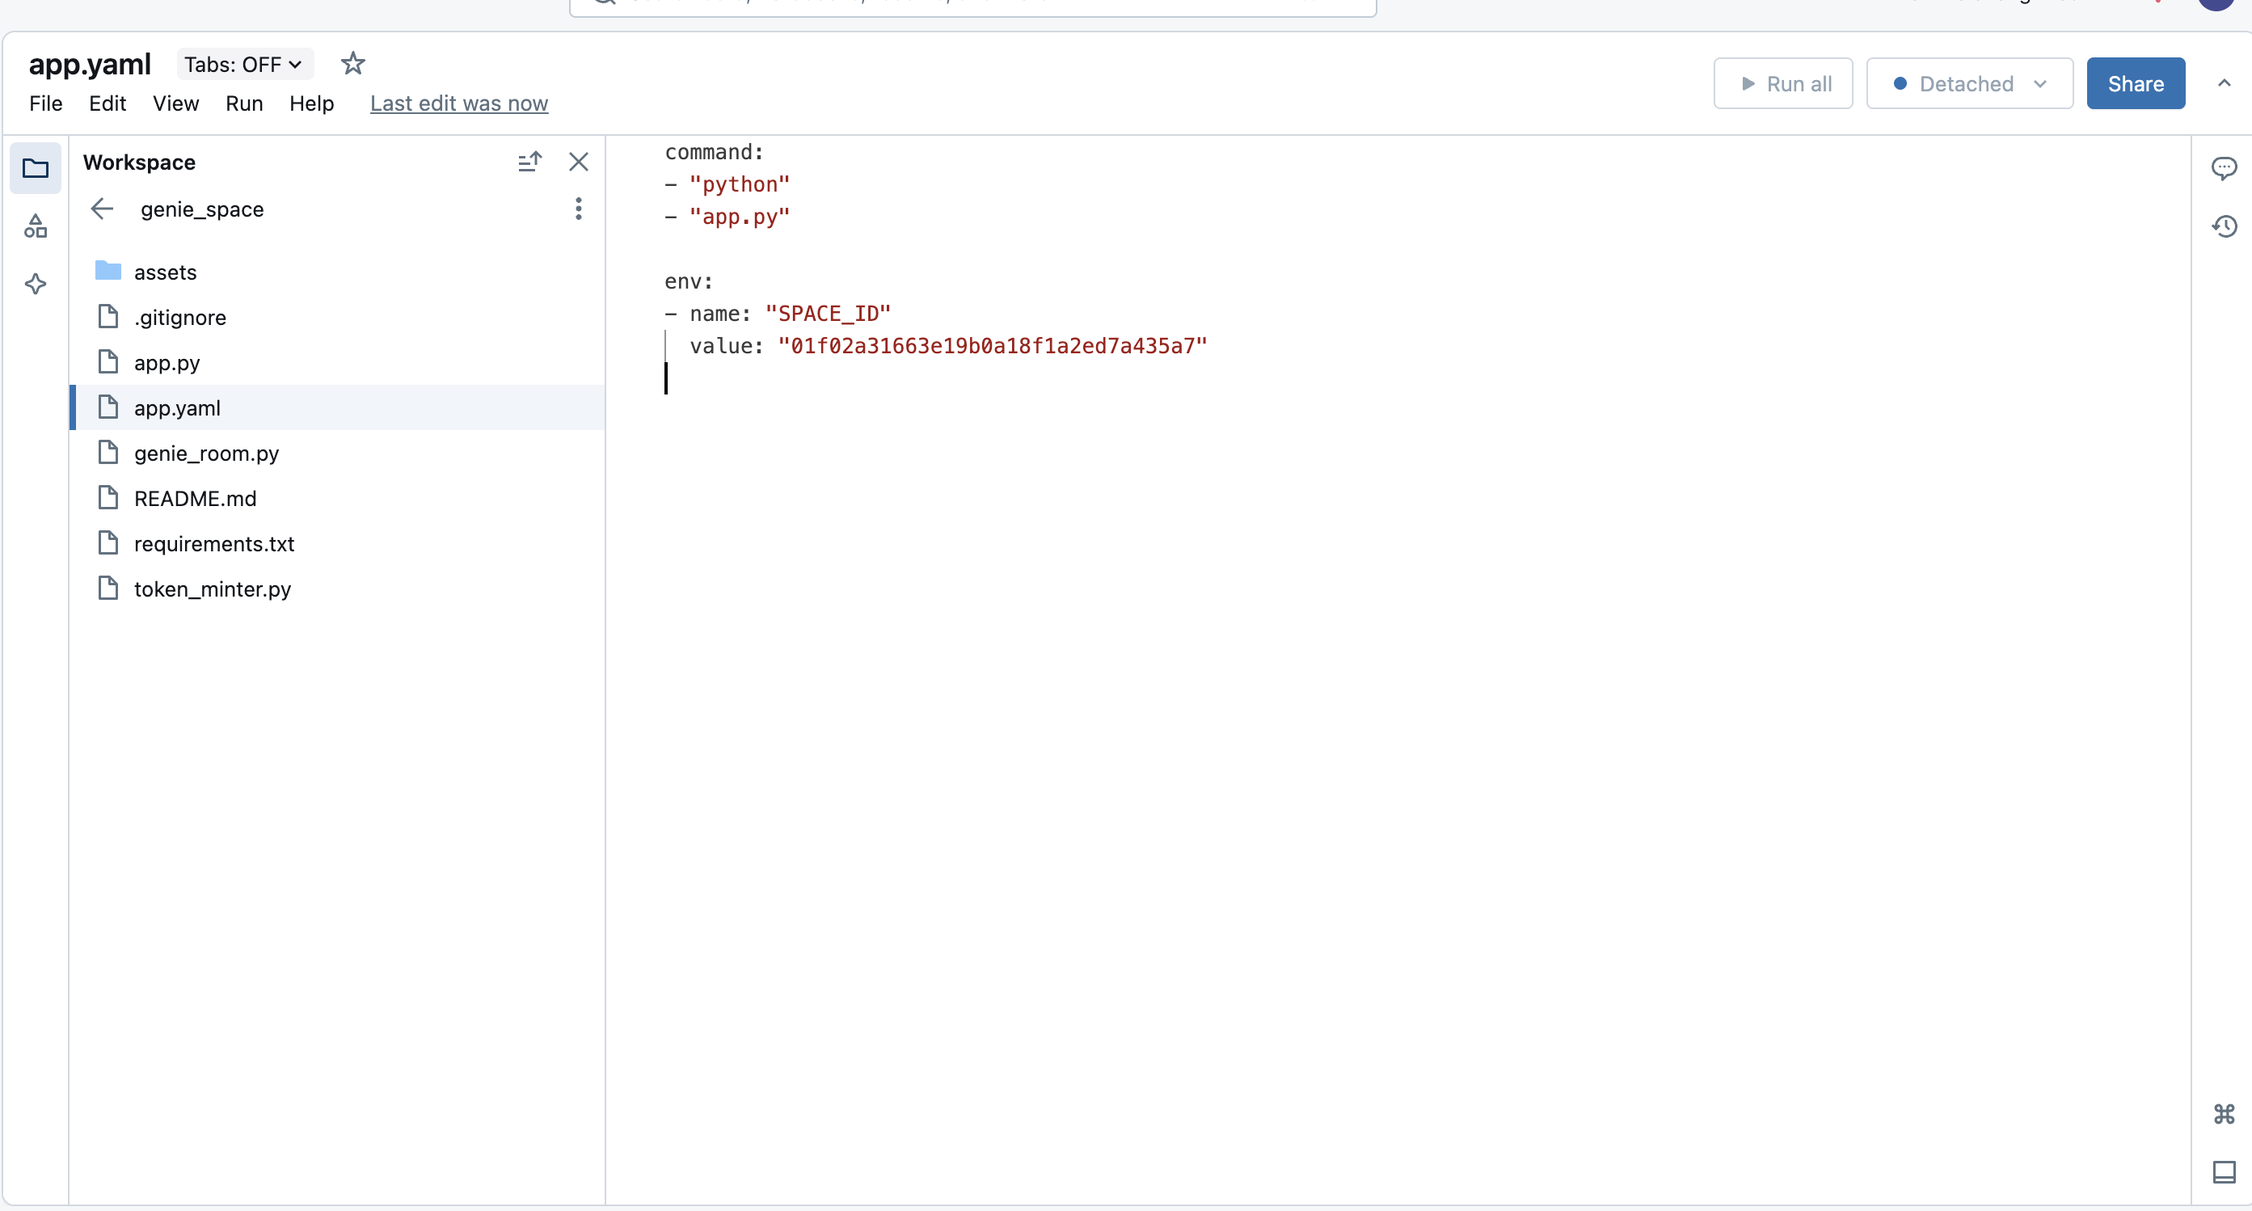
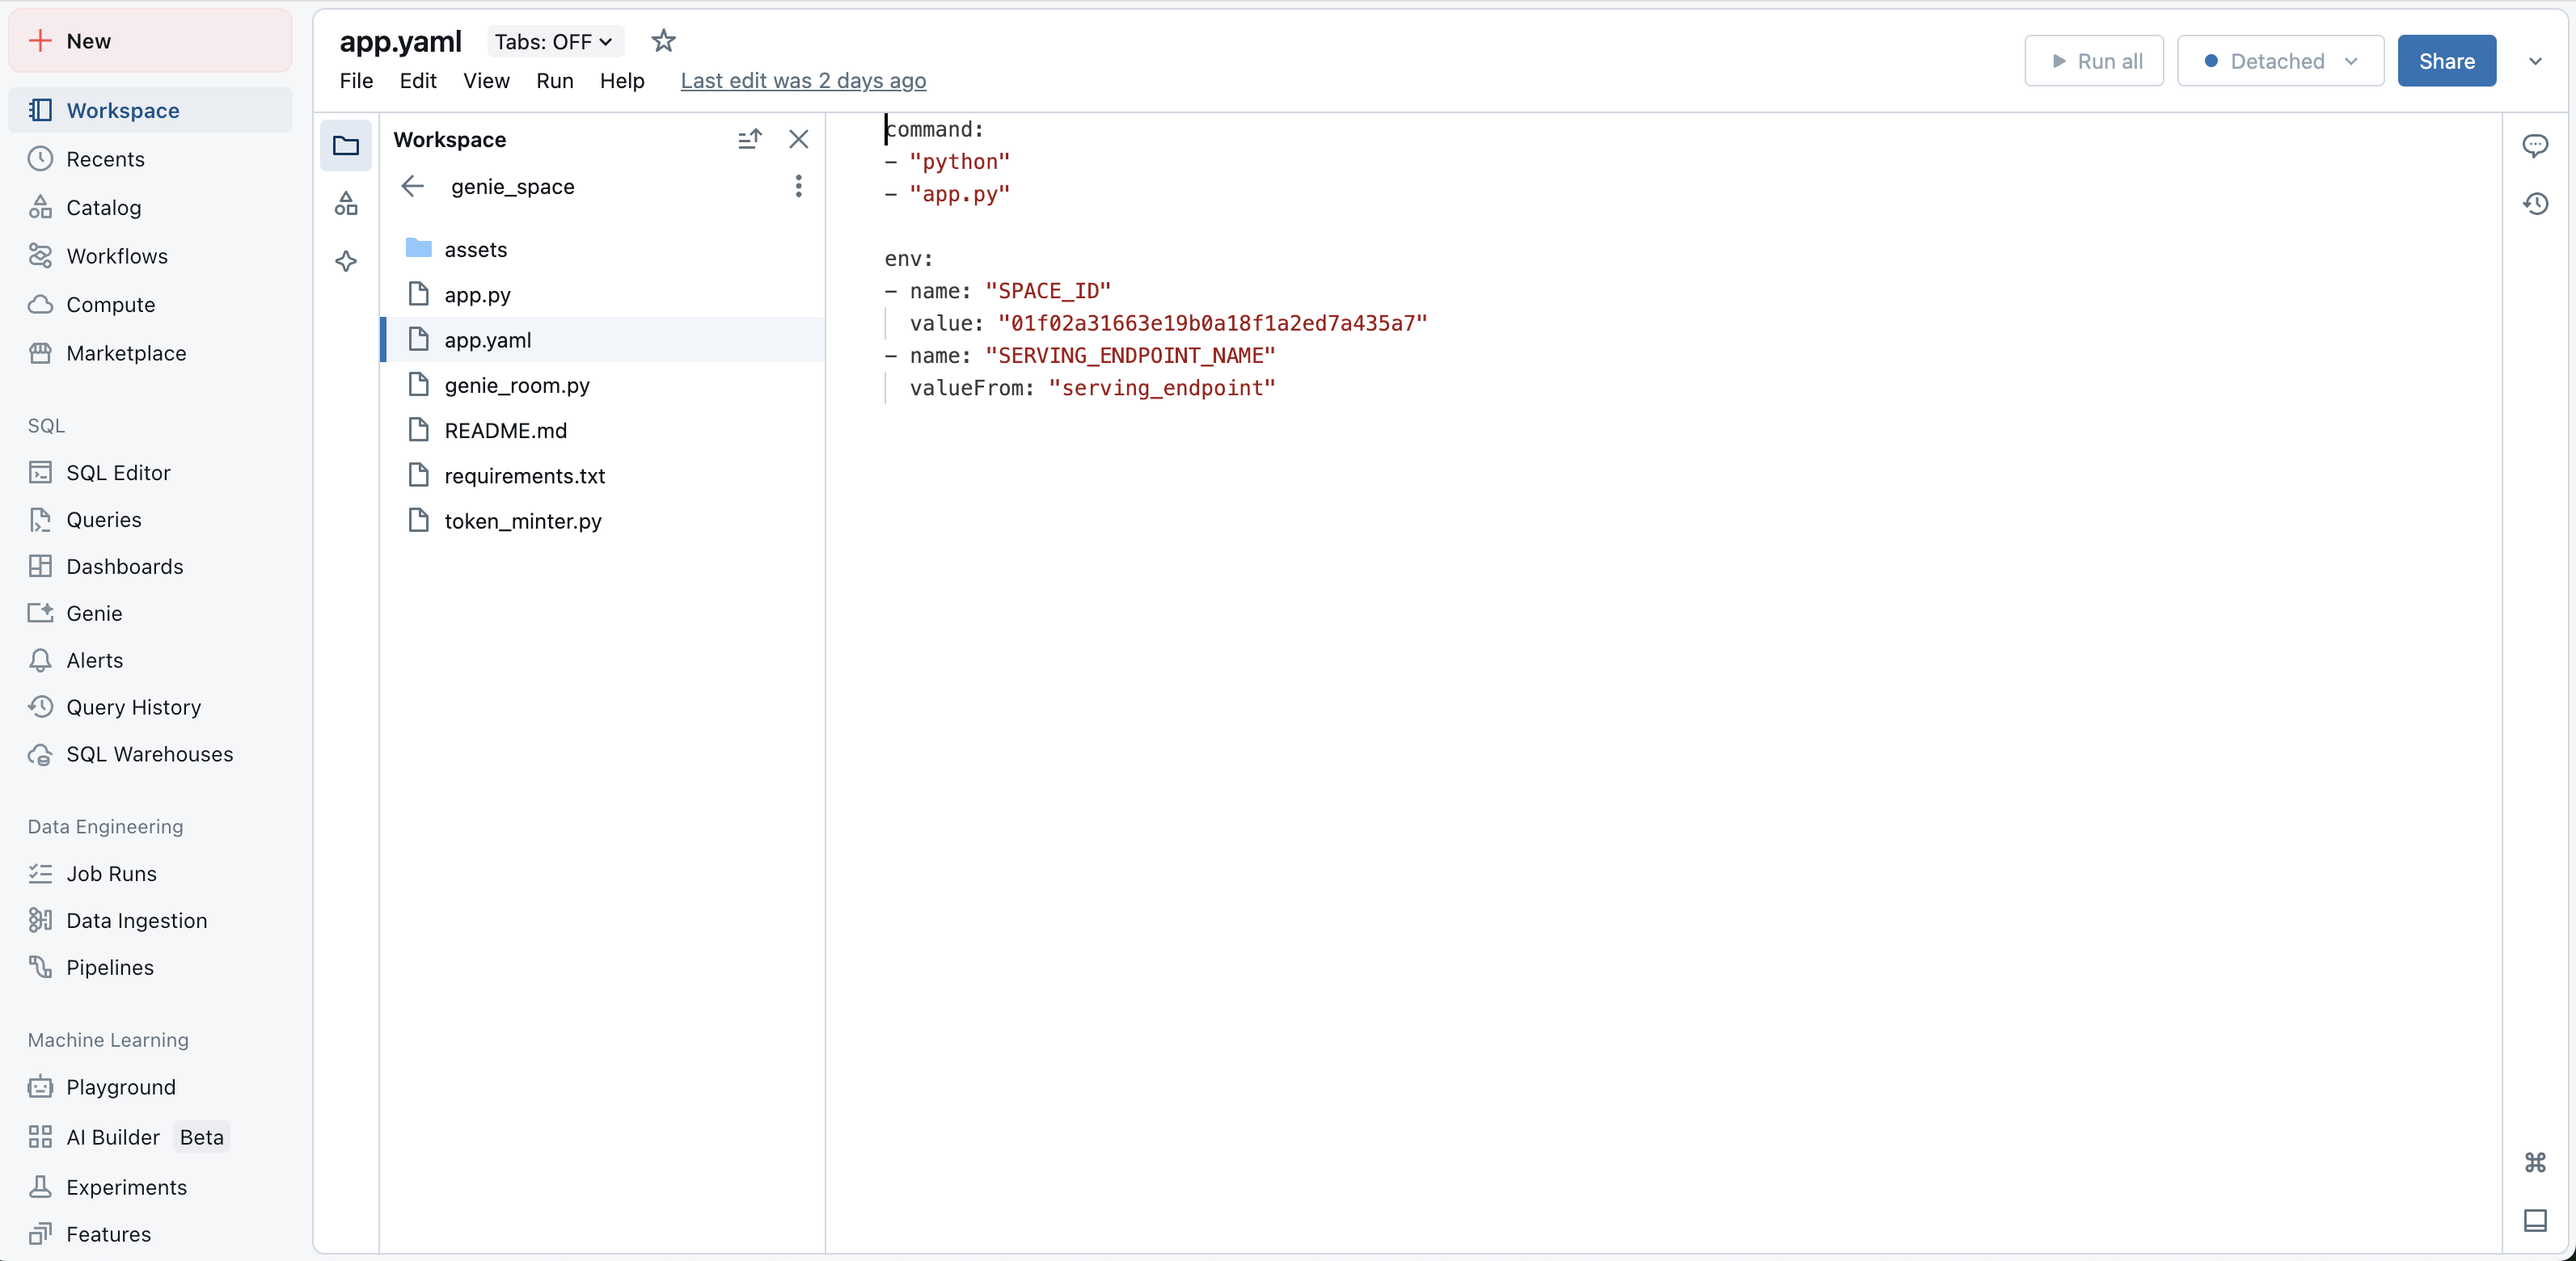
added more README details

diff --git a/genie_space/README.md b/genie_space/README.md
@@ -47,7 +47,8 @@ git clone https://github.com/vivian-xie-db/genie_space.git
 ![](./assets/genie-space1.png)
 
 
-2. Change the "SPACE_ID" environment value to the ID of your Genie space, for example, 01f02a31663e19b0a18f1a2ed7a435a7 in the app.yaml file in the root directory:
+2. Change the "SPACE_ID" environment value to the ID of your Genie space, for example, 01f02a31663e19b0a18f1a2ed7a435a7 in the app.yaml file in the root directory and add 
+a model serving endpoint in App resources for adding a model for insights generation:
 
 ```yaml
 command:
@@ -57,23 +58,28 @@ command:
 env:
 - name: "SPACE_ID"
   value: "space_id"
+- name: "SERVING_ENDPOINT_NAME"
+  valueFrom: "serving_endpoint"
 
 ```
 ![](./assets/genie-space7.png)
+![](./assets/genie-space8.png)
 
 3. Create an app in the Databricks apps interface and then deploy the path to the code
 
 ![](./assets/genie-space2.png)
 
+4. Grant the service principal can_run permission to the genie space.
+![](./assets/genie-space9.png)
 
-4. Grant the service principal permission can_use to the SQL warehouse that powers genie
+5. Grant the service principal permission can_use to the SQL warehouse that powers genie
 
 ![](./assets/genie-space5.png)
 
 
 ![](./assets/genie-space6.png)
 
-5. Grant the service principal appropriate privileges to the underlying resources such as catalog, schema and tables.
+6. Grant the service principal appropriate privileges to the underlying resources such as catalog, schema and tables.
 
    note: I am using ALL PRIVILEGES for demo purpose but you can do use catalog on catalog, use schema on schema and select on tables
 
